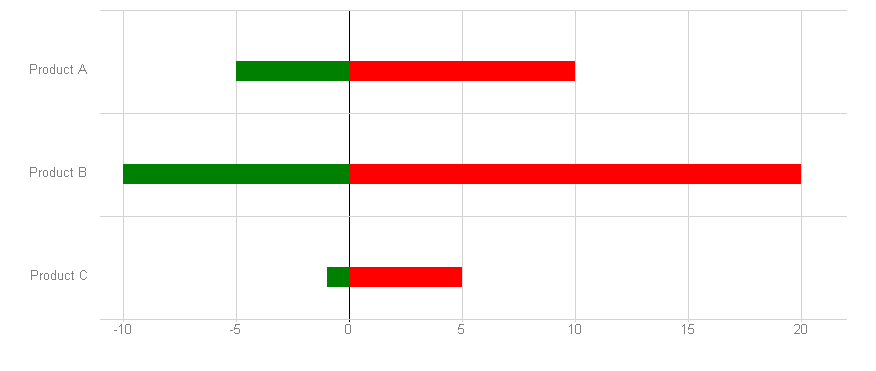
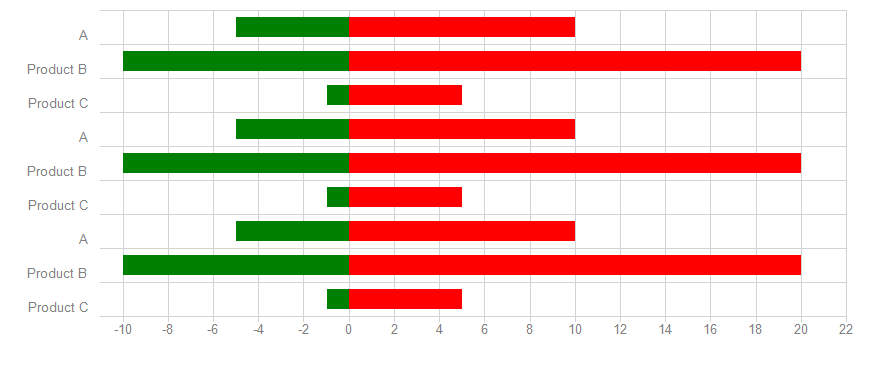
Update

diff --git a/SimpleImageChartsDemo/Form1.Designer.cs b/SimpleImageChartsDemo/Form1.Designer.cs
@@ -32,7 +32,7 @@
             this.btnPieChart = new System.Windows.Forms.Button();
             this.btnDonutChart = new System.Windows.Forms.Button();
             this.btnBarChart = new System.Windows.Forms.Button();
-            this.btnColumnBar = new System.Windows.Forms.Button();
+            this.btnColumnChart = new System.Windows.Forms.Button();
             this.btnDoubleAxisBar = new System.Windows.Forms.Button();
             this.btnStackedBar = new System.Windows.Forms.Button();
             ((System.ComponentModel.ISupportInitialize)(this.pictureBox1)).BeginInit();
@@ -40,6 +40,9 @@
             // 
             // pictureBox1
             // 
+            this.pictureBox1.Anchor = ((System.Windows.Forms.AnchorStyles)((((System.Windows.Forms.AnchorStyles.Top | System.Windows.Forms.AnchorStyles.Bottom) 
+            | System.Windows.Forms.AnchorStyles.Left) 
+            | System.Windows.Forms.AnchorStyles.Right)));
             this.pictureBox1.BorderStyle = System.Windows.Forms.BorderStyle.FixedSingle;
             this.pictureBox1.Location = new System.Drawing.Point(20, 21);
             this.pictureBox1.Name = "pictureBox1";
@@ -49,6 +52,7 @@
             // 
             // btnPieChart
             // 
+            this.btnPieChart.Anchor = ((System.Windows.Forms.AnchorStyles)((System.Windows.Forms.AnchorStyles.Top | System.Windows.Forms.AnchorStyles.Right)));
             this.btnPieChart.Location = new System.Drawing.Point(955, 21);
             this.btnPieChart.Name = "btnPieChart";
             this.btnPieChart.Size = new System.Drawing.Size(118, 36);
@@ -59,6 +63,7 @@
             // 
             // btnDonutChart
             // 
+            this.btnDonutChart.Anchor = ((System.Windows.Forms.AnchorStyles)((System.Windows.Forms.AnchorStyles.Top | System.Windows.Forms.AnchorStyles.Right)));
             this.btnDonutChart.Location = new System.Drawing.Point(955, 79);
             this.btnDonutChart.Name = "btnDonutChart";
             this.btnDonutChart.Size = new System.Drawing.Size(118, 36);
@@ -69,6 +74,7 @@
             // 
             // btnBarChart
             // 
+            this.btnBarChart.Anchor = ((System.Windows.Forms.AnchorStyles)((System.Windows.Forms.AnchorStyles.Top | System.Windows.Forms.AnchorStyles.Right)));
             this.btnBarChart.Location = new System.Drawing.Point(955, 137);
             this.btnBarChart.Name = "btnBarChart";
             this.btnBarChart.Size = new System.Drawing.Size(118, 36);
@@ -77,18 +83,20 @@
             this.btnBarChart.UseVisualStyleBackColor = true;
             this.btnBarChart.Click += new System.EventHandler(this.BtnBarChart_Click);
             // 
-            // btnColumnBar
+            // btnColumnChart
             // 
-            this.btnColumnBar.Location = new System.Drawing.Point(955, 311);
-            this.btnColumnBar.Name = "btnColumnBar";
-            this.btnColumnBar.Size = new System.Drawing.Size(118, 36);
-            this.btnColumnBar.TabIndex = 4;
-            this.btnColumnBar.Text = "Column Chart";
-            this.btnColumnBar.UseVisualStyleBackColor = true;
-            this.btnColumnBar.Click += new System.EventHandler(this.BtnColumnBar_Click);
+            this.btnColumnChart.Anchor = ((System.Windows.Forms.AnchorStyles)((System.Windows.Forms.AnchorStyles.Top | System.Windows.Forms.AnchorStyles.Right)));
+            this.btnColumnChart.Location = new System.Drawing.Point(955, 311);
+            this.btnColumnChart.Name = "btnColumnChart";
+            this.btnColumnChart.Size = new System.Drawing.Size(118, 36);
+            this.btnColumnChart.TabIndex = 4;
+            this.btnColumnChart.Text = "Column Chart";
+            this.btnColumnChart.UseVisualStyleBackColor = true;
+            this.btnColumnChart.Click += new System.EventHandler(this.BtnColumnChart_Click);
             // 
             // btnDoubleAxisBar
             // 
+            this.btnDoubleAxisBar.Anchor = ((System.Windows.Forms.AnchorStyles)((System.Windows.Forms.AnchorStyles.Top | System.Windows.Forms.AnchorStyles.Right)));
             this.btnDoubleAxisBar.Location = new System.Drawing.Point(955, 253);
             this.btnDoubleAxisBar.Name = "btnDoubleAxisBar";
             this.btnDoubleAxisBar.Size = new System.Drawing.Size(118, 36);
@@ -99,6 +107,7 @@
             // 
             // btnStackedBar
             // 
+            this.btnStackedBar.Anchor = ((System.Windows.Forms.AnchorStyles)((System.Windows.Forms.AnchorStyles.Top | System.Windows.Forms.AnchorStyles.Right)));
             this.btnStackedBar.Location = new System.Drawing.Point(955, 195);
             this.btnStackedBar.Name = "btnStackedBar";
             this.btnStackedBar.Size = new System.Drawing.Size(118, 36);
@@ -114,7 +123,7 @@
             this.ClientSize = new System.Drawing.Size(1140, 450);
             this.Controls.Add(this.btnStackedBar);
             this.Controls.Add(this.btnDoubleAxisBar);
-            this.Controls.Add(this.btnColumnBar);
+            this.Controls.Add(this.btnColumnChart);
             this.Controls.Add(this.btnBarChart);
             this.Controls.Add(this.btnDonutChart);
             this.Controls.Add(this.btnPieChart);
@@ -132,7 +141,7 @@
         private System.Windows.Forms.Button btnPieChart;
         private System.Windows.Forms.Button btnDonutChart;
         private System.Windows.Forms.Button btnBarChart;
-        private System.Windows.Forms.Button btnColumnBar;
+        private System.Windows.Forms.Button btnColumnChart;
         private System.Windows.Forms.Button btnDoubleAxisBar;
         private System.Windows.Forms.Button btnStackedBar;
     }

diff --git a/SimpleImageChartsDemo/Form1.cs b/SimpleImageChartsDemo/Form1.cs
@@ -1,7 +1,7 @@
 using SimpleImageCharts.BarChart;
+using SimpleImageCharts.ColumnChart;
 using SimpleImageCharts.DoubleAxisBarChart;
 using SimpleImageCharts.PieChart;
-using SimpleImageCharts.ColumnChart;
 using System;
 using System.Drawing;
 using System.Windows.Forms;
@@ -104,18 +104,18 @@ namespace WindowsFormsChart
                 Width = pictureBox1.Width,
                 Height = pictureBox1.Height,
                 IsStacked = true,
-                Categories = new[] { "Product A", "Product B", "Product C" },
+                Categories = new[] { "A", "Product B", "Product C", "A", "Product B", "Product C", "A", "Product B", "Product C" },
                 DataSets = new[]
                 {
                     new BarSeries
                     {
                         Color = Color.Green,
-                        Data = new[] { -5f, -10f, -1f },
+                        Data = new[] { -5f, -10f, -1f , -5f, -10f, -1f , -5f, -10f, -1f },
                     },
                     new BarSeries
                     {
                         Color = Color.Red,
-                        Data = new[] { 10f, 20f, 5f },
+                        Data = new[] { 10f, 20f, 5f, 10f, 20f, 5f, 10f, 20f, 5f },
                     }
                 }
             };
@@ -124,7 +124,30 @@ namespace WindowsFormsChart
             pictureBox1.Image.Save(@"D:\GitHub\SimpleImageCharts\screenshots\StackedBarChart.jpg");
         }
 
-        private void BtnColumnBar_Click(object sender, EventArgs e)
+        private void BtnDoubleAxisBar_Click(object sender, EventArgs e)
+        {
+            var chart = new DoubleAxisBarChart
+            {
+                Width = pictureBox1.Width,
+                Height = pictureBox1.Height,
+                Categories = new[] { "Product A", "Product B", "Product C", "Product D", "Product E", "Product F" },
+                FirstDataSet = new DoubleAxisBarSeries
+                {
+                    Color = Color.Green,
+                    Data = new[] { 5f, 10f, 5f, 1f, 12f, 7f },
+                },
+                SecondDataSet = new DoubleAxisBarSeries
+                {
+                    Color = Color.Red,
+                    Data = new[] { 15f, 10f, 15f, 8f, 2f, 14f },
+                }
+            };
+
+            pictureBox1.Image = chart.CreateImage();
+            pictureBox1.Image.Save(@"D:\GitHub\SimpleImageCharts\screenshots\DoubleAxisBarChart.jpg");
+        }
+
+        private void BtnColumnChart_Click(object sender, EventArgs e)
         {
             var categories = new[] { "A", "Product B", "Product C", "Product D", "Product E" };
             var rand = new Random();
@@ -156,28 +179,5 @@ namespace WindowsFormsChart
             pictureBox1.Image = chart.CreateImage();
             pictureBox1.Image.Save(@"D:\GitHub\SimpleImageCharts\screenshots\ColumnChart.jpg");
         }
-
-        private void BtnDoubleAxisBar_Click(object sender, EventArgs e)
-        {
-            var chart = new DoubleAxisBarChart
-            {
-                Width = pictureBox1.Width,
-                Height = pictureBox1.Height,
-                Categories = new[] { "Product A", "Product B", "Product C", "Product D", "Product E", "Product F" },
-                FirstDataSet = new DoubleAxisBarSeries { 
-                        Color = Color.Green,
-                        Data = new[] { 5f, 10f, 5f, 1f, 12f, 7f },
-                    },
-                SecondDataSet = new DoubleAxisBarSeries
-                {
-                    Color = Color.Red,
-                    Data = new[] { 15f, 10f, 15f, 8f, 2f, 14f },
-                }
-            };
-
-            pictureBox1.Image = chart.CreateImage();
-            pictureBox1.Image.Save(@"D:\GitHub\SimpleImageCharts\screenshots\DoubleAxisBarChart.jpg");
-        }
-
     }
 }

diff --git a/SimpleImageCharts/BarChart/BarChart.cs b/SimpleImageCharts/BarChart/BarChart.cs
@@ -14,11 +14,11 @@ namespace SimpleImageCharts.BarChart
 
         private const int MarginBottom = 50;
 
-        private const int BarSize = 20;
+        public int BarSize { get; set; } = 20;
 
         public bool IsStacked { get; set; } = false;
 
-        public int StepSize { get; set; } = 5;
+        public int StepSize { get; set; } = 0;
 
         public int Width { get; set; } = 600;
 
@@ -45,6 +45,12 @@ namespace SimpleImageCharts.BarChart
             _maxValue = DataSets.SelectMany(x => x.Data).Max(x => x) * 1.1f;
             _minValue = DataSets.SelectMany(x => x.Data).Min(x => x) * 1.1f;
 
+            if (StepSize == 0)
+            {
+                var range = _maxValue - _minValue;
+                StepSize = (int)(range / 4);
+            }
+
             if (_minValue > 0)
             {
                 _minValue = 0;
@@ -59,12 +65,12 @@ namespace SimpleImageCharts.BarChart
             {
                 graphic.Clear(Color.White);
                 // X axis line
-                graphic.DrawLine(Pens.Black, _rootX, MarginTop, _rootX, Height - MarginBottom);
+                graphic.DrawLine(Pens.LightGray, _rootX, MarginTop, _rootX, Height - MarginBottom);
 
                 DrawHorizontalLines(graphic);
                 DrawVerticalLines(graphic);
                 DrawVerticalValueLabels(graphic);
-                var offsetY = IsStacked ? 0 : -(DataSets.Length * BarSize) / 2;
+                var offsetY = IsStacked ? -BarSize / 2 : -(DataSets.Length * BarSize) / 2;
                 foreach (var data in DataSets)
                 {
                     DrawBarSeries(graphic, data, offsetY);
@@ -120,7 +126,7 @@ namespace SimpleImageCharts.BarChart
         {
             var x = _rootX;
             var realStepSize = StepSize * _widthUnit;
-            using(var font = new Font("Arial", 10))
+            using (var font = new Font("Arial", 10))
             using (var stringFormat = new StringFormat())
             {
                 stringFormat.Alignment = StringAlignment.Center;
@@ -166,8 +172,7 @@ namespace SimpleImageCharts.BarChart
 
         private void DrawBarSeries(Graphics graphics, BarSeries series, int offsetY)
         {
-            var spaceY = _categoryHeight;
-            var y = MarginTop + (spaceY / 2) + offsetY;
+            var y = MarginTop + (_categoryHeight / 2) + offsetY;
             using (var brush = new SolidBrush(series.Color))
             {
                 foreach (var value in series.Data)
@@ -182,7 +187,7 @@ namespace SimpleImageCharts.BarChart
                         graphics.FillRectangle(brush, _rootX + length, y, Math.Abs(length), BarSize);
                     }
 
-                    y += spaceY;
+                    y += _categoryHeight;
                 }
             }
         }

diff --git a/SimpleImageCharts/ColumnChart/ColumnChart.cs b/SimpleImageCharts/ColumnChart/ColumnChart.cs
@@ -14,7 +14,7 @@ namespace SimpleImageCharts.ColumnChart
 
         private const int MarginBottom = 100;
 
-        private const int BarWidth = 15;
+        private const int ColumnSize = 15;
 
         public int StepSize { get; set; } = 5;
 
@@ -60,11 +60,11 @@ namespace SimpleImageCharts.ColumnChart
                 graphic.DrawLine(Pens.Black, MarginLeft, _rootY, Width - MarginRight, _rootY);
 
                 DrawVerticalLines(graphic);
-                var offsetX = -(DataSets.Length * BarWidth) / 2;
+                var offsetX = -(DataSets.Length * ColumnSize) / 2;
                 foreach (var data in DataSets)
                 {
                     DrawBarSeries(graphic, data, offsetX);
-                    offsetX += BarWidth;
+                    offsetX += ColumnSize;
                 }
 
                 DrawCategoyLabels(graphic);
@@ -104,18 +104,24 @@ namespace SimpleImageCharts.ColumnChart
             var spaceX = _categoryWidth;
             var x = MarginLeft + (spaceX / 2) + offsetX;
             using (var brush = new SolidBrush(series.Color))
+            using (var stringFormat = new StringFormat())
             {
+                stringFormat.Alignment = StringAlignment.Center;
                 foreach (var value in series.Data)
                 {
                     var length = _heightUnit * value;
+                    var text = value.ToString("0.##");
                     if (length >= 0)
                     {
-                        graphics.FillRectangle(brush, x, _rootY - length, BarWidth, length);
+                        graphics.FillRectangle(brush, x, _rootY - length, ColumnSize, length);
+                        graphics.DrawString(text, new Font("Arial", 10), Brushes.Black, x, _rootY - length - 15, stringFormat);
                     }
                     else
                     {
-                        graphics.FillRectangle(brush, x, _rootY, BarWidth, Math.Abs(length));
+                        graphics.FillRectangle(brush, x, _rootY, ColumnSize, Math.Abs(length));
                     }
+
+
 
                     x += spaceX;
                 }

diff --git a/SimpleImageCharts/PieChart/PieChart.cs b/SimpleImageCharts/PieChart/PieChart.cs
@@ -86,6 +86,11 @@ namespace SimpleImageCharts.PieChart
                 var startAngle = InitialAngle;
                 foreach (var entry in Entries)
                 {
+                    if(entry.Value == 0)
+                    {
+                        continue;
+                    }
+
                     var endAngle = entry.Value * 360f / total;
 
                     var labelAngle = Math.PI * (startAngle + endAngle / 2f) / 180f;
